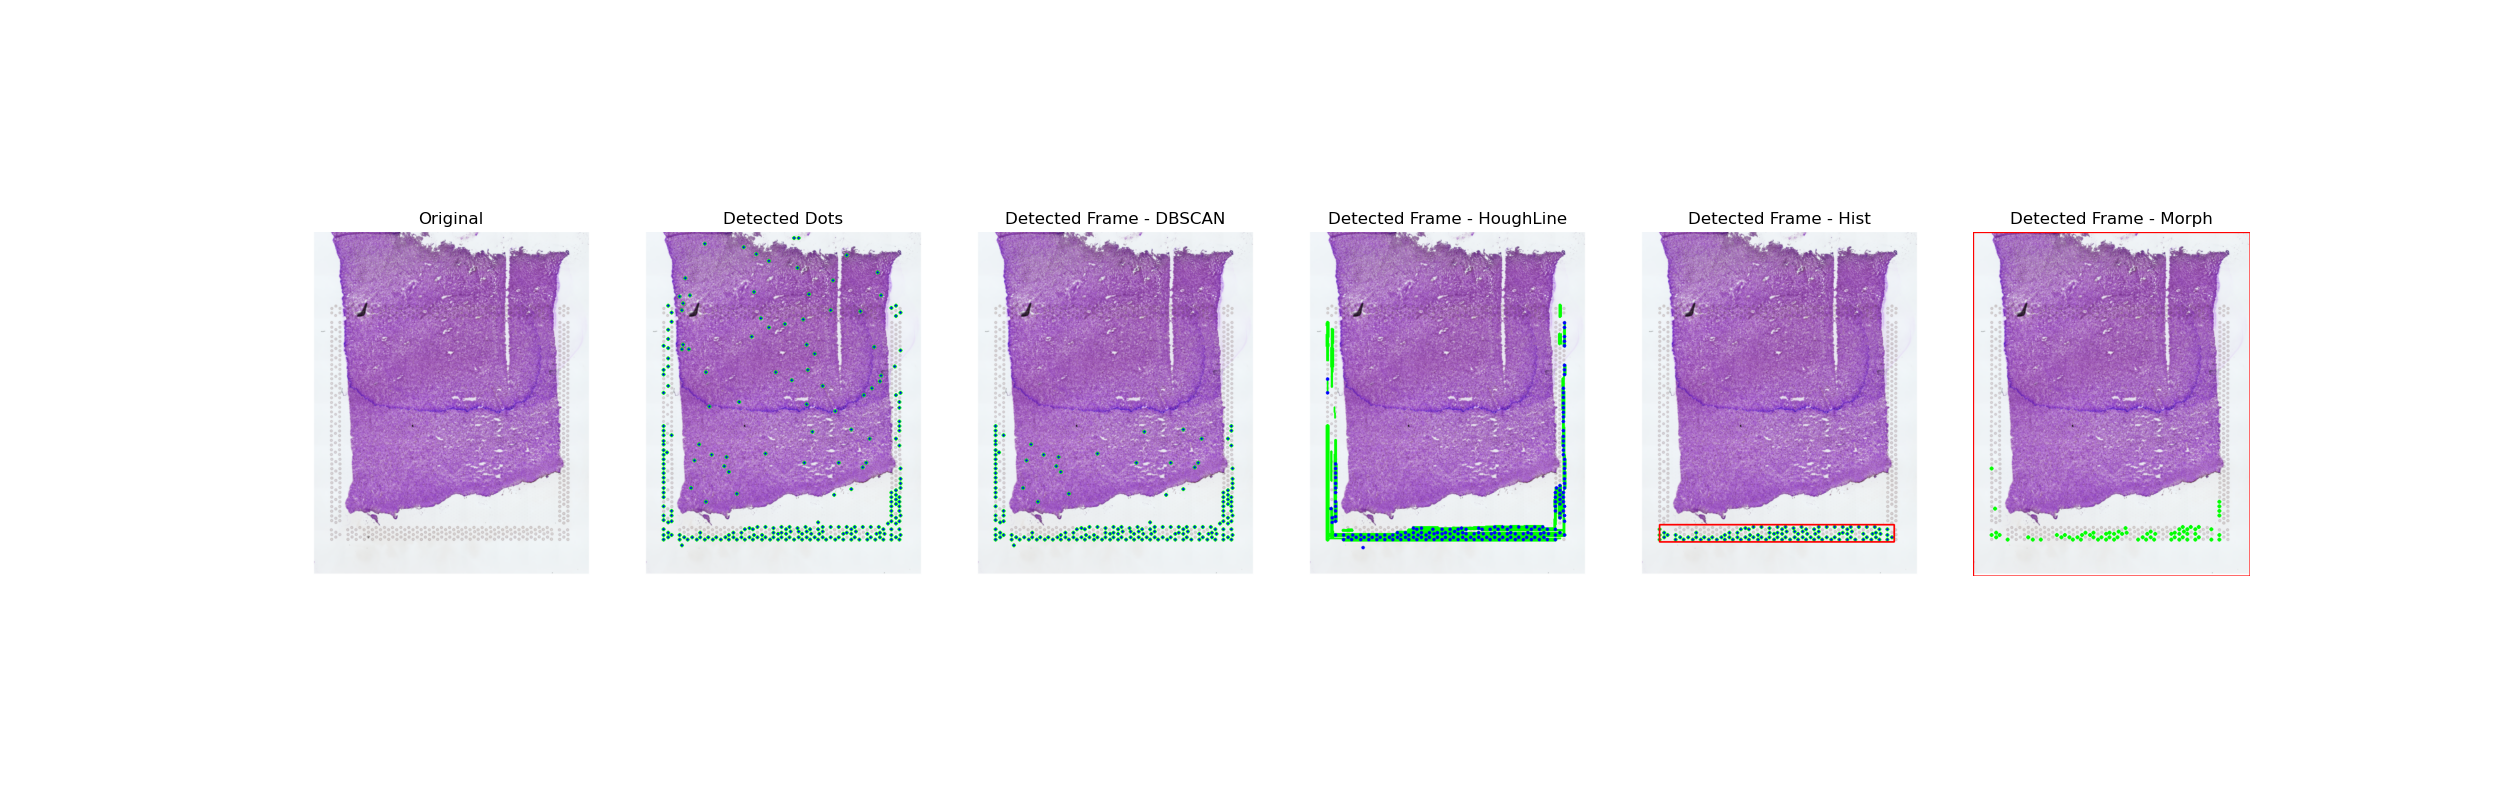
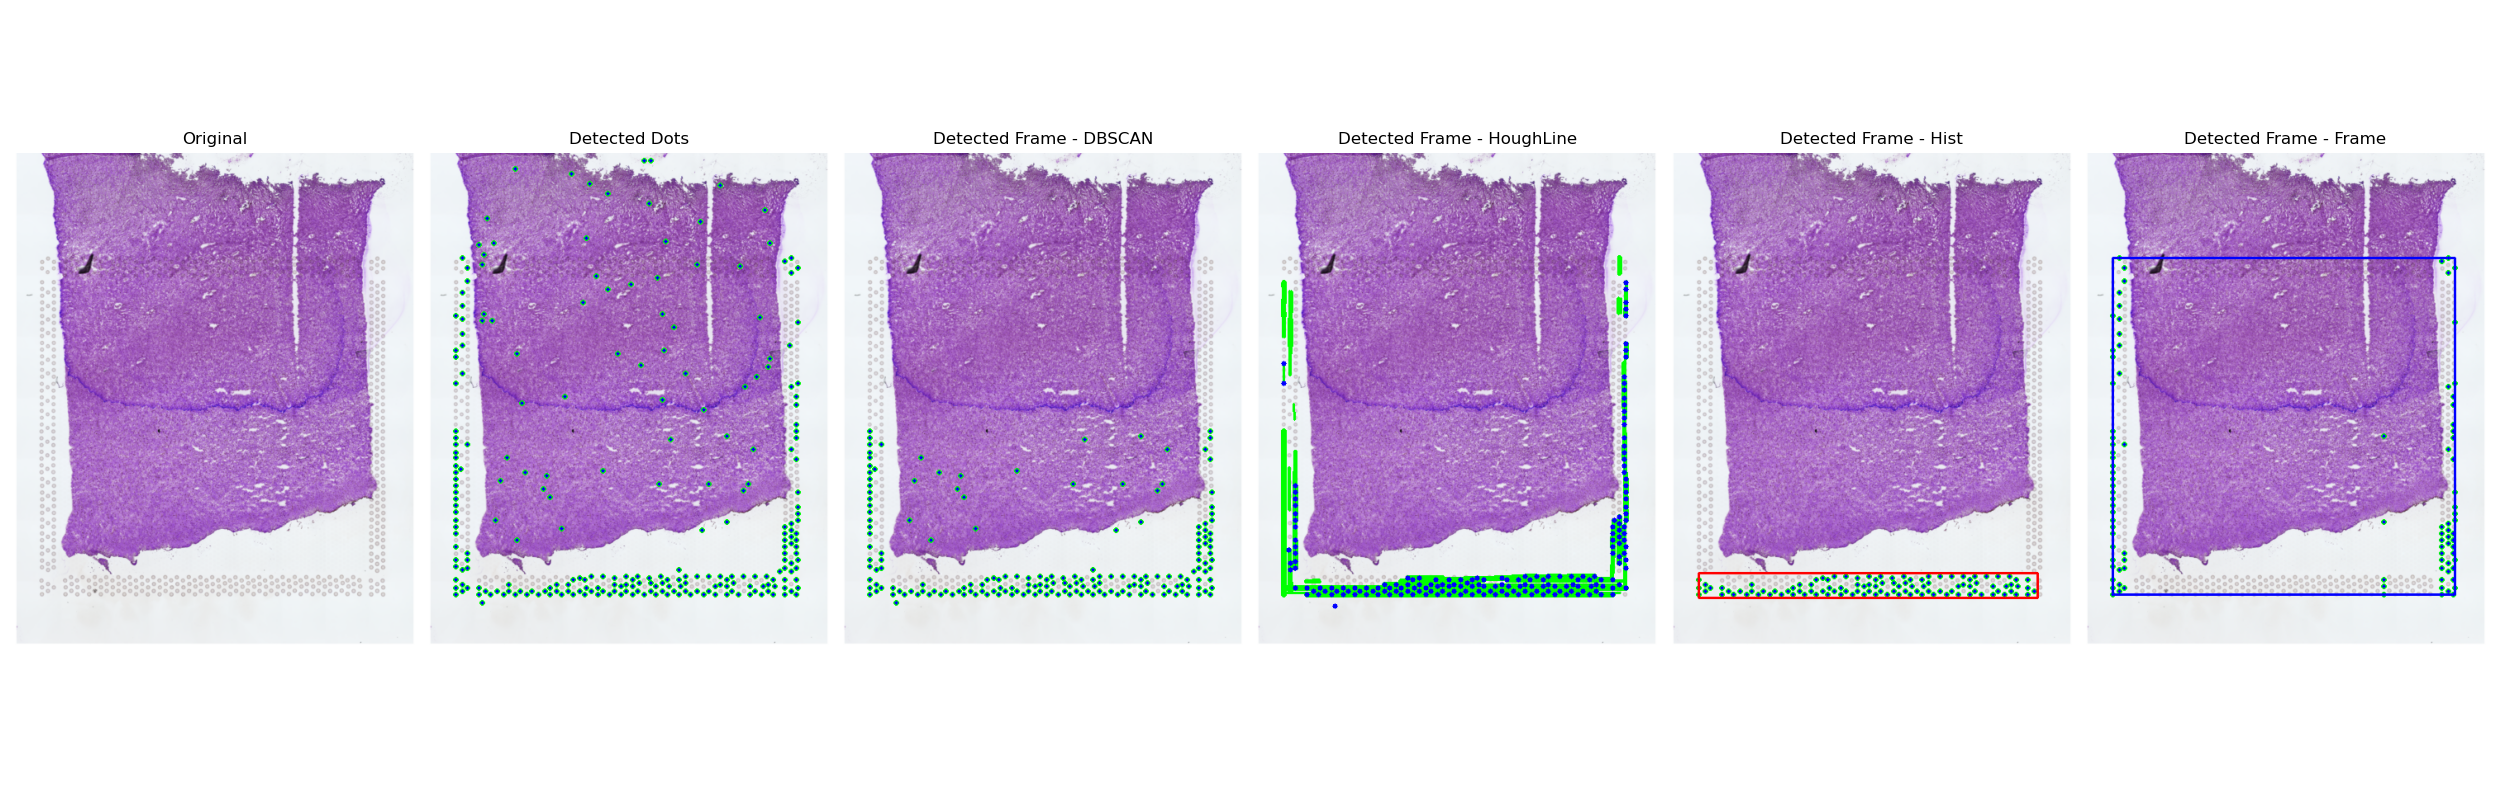
update

diff --git a/main.py b/main.py
@@ -8,6 +8,8 @@ from DetectFrame.FilterDots_DBSCAN import filter_dots_dbscan
 from DetectFrame.FilterDots_HoughLine import filter_dots_houghline
 from DetectFrame.FilterDots_Hist import filter_dots_hist
 
+from DetectFrame.LocateFrame import locate_frame
+
 
 image_folder = "images"
 image_ls = [img for img in os.listdir(image_folder) if img.endswith(".png")]
@@ -23,33 +25,42 @@ for i, img in enumerate(image_ls):
     circles_houghline, output_houghline = filter_dots_houghline(image_folder + "/" + img)
     circles_hist, output_hist = filter_dots_hist(image_folder + "/" + img)
 
+    circles_frame, output_frame = locate_frame(circles_dots, image_folder + "/" + img)
+
     # 显示结果
     plt.figure(figsize=(25, 8))
 
-    plt.subplot(1, 5, 1)
+    plt.subplot(1, 6, 1)
     plt.imshow(original_img)
     plt.title("Original")
     plt.axis("off")
 
-    plt.subplot(1, 5, 2)
+    plt.subplot(1, 6, 2)
     plt.imshow(output_dots)
     plt.title("Detected Dots")
     plt.axis("off")
 
-    plt.subplot(1, 5, 3)
+    plt.subplot(1, 6, 3)
     plt.imshow(output_dbscan)
     plt.title("Detected Frame - DBSCAN")
     plt.axis("off")
 
-    plt.subplot(1, 5, 4)
+    plt.subplot(1, 6, 4)
     plt.imshow(output_houghline)
     plt.title("Detected Frame - HoughLine")
     plt.axis("off")
 
-    plt.subplot(1, 5, 5)
+    plt.subplot(1, 6, 5)
     plt.imshow(output_hist)
     plt.title("Detected Frame - Hist")
     plt.axis("off")
+
+    plt.subplot(1, 6, 6)
+    plt.imshow(output_frame)
+    plt.title("Detected Frame - Frame")
+    plt.axis("off")
+
+    plt.tight_layout()
 
     plt.savefig(output_folder +  "/" + img)
     plt.close()

diff --git a/DetectFrame/LocateFrame.py b/DetectFrame/LocateFrame.py
@@ -15,7 +15,7 @@ def locate_frame(circles, image_file=None):
 
     # 确定直方图的边界阈值
     step_size = 2
-    threshold = 5  # 每个直方图bin的最小点数
+    threshold = 5  # 每行/列的最小点数
 
     valid_x = []
     for i in range(0, height, step_size):
@@ -24,7 +24,7 @@ def locate_frame(circles, image_file=None):
             valid_x.append(i)
 
     valid_y = []
-    for i in range(0, width, step_size):
+    for i in range(0, width):
         count_y = len([y for y in y_coords if y >= i and y < i + step_size])
         if count_y >= threshold:
             valid_y.append(i)
@@ -38,7 +38,8 @@ def locate_frame(circles, image_file=None):
 
 
     for x, y, r in valid_circles:
-        cv2.circle(image, (x, y), r, (0, 255, 0), 2)
+        cv2.circle(image, (x, y), r, (0, 255, 0), 2)  # 绿色圆圈
+        cv2.circle(image, (x, y), 2, (0, 0, 255), -1)  # 红色中心点
 
     cv2.rectangle(image, (x_left, y_top), (x_right, y_bottom), (0, 0, 255), 2)
 

diff --git a/DetectFrame/DetectDots.py b/DetectFrame/DetectDots.py
@@ -33,14 +33,15 @@ def detect_frame_dots(image):
     检测到了很多外部圆：
         减小 dp（如 1.2 -> 0.6）
     """
+
     circles = cv2.HoughCircles(blurred, cv2.HOUGH_GRADIENT, dp=0.6, minDist=3,param1=30, param2=10, minRadius=0, maxRadius=3)
 
     # 创建显示结果的副本
     output = image.copy()
     # 如果检测到圆，则进行绘制
     if circles is not None:
-        circles = np.uint16(np.around(circles))  # 将坐标转换为整数
-        for i in circles[0, :]:
+        circles = np.uint16(np.around(circles[0, :]))  # 将坐标转换为整数
+        for i in circles:
             cv2.circle(output, (i[0], i[1]), i[2], (0, 255, 0), 2)  # 画圆
             cv2.circle(output, (i[0], i[1]), 2, (0, 0, 255), -1)  # 画圆心
 
